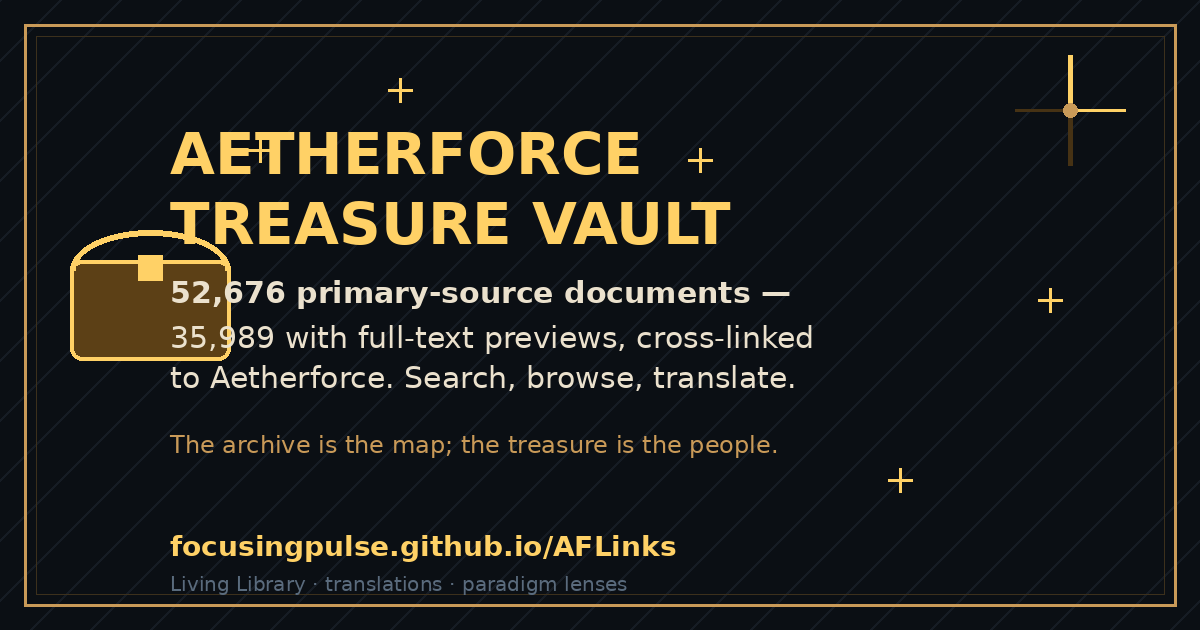
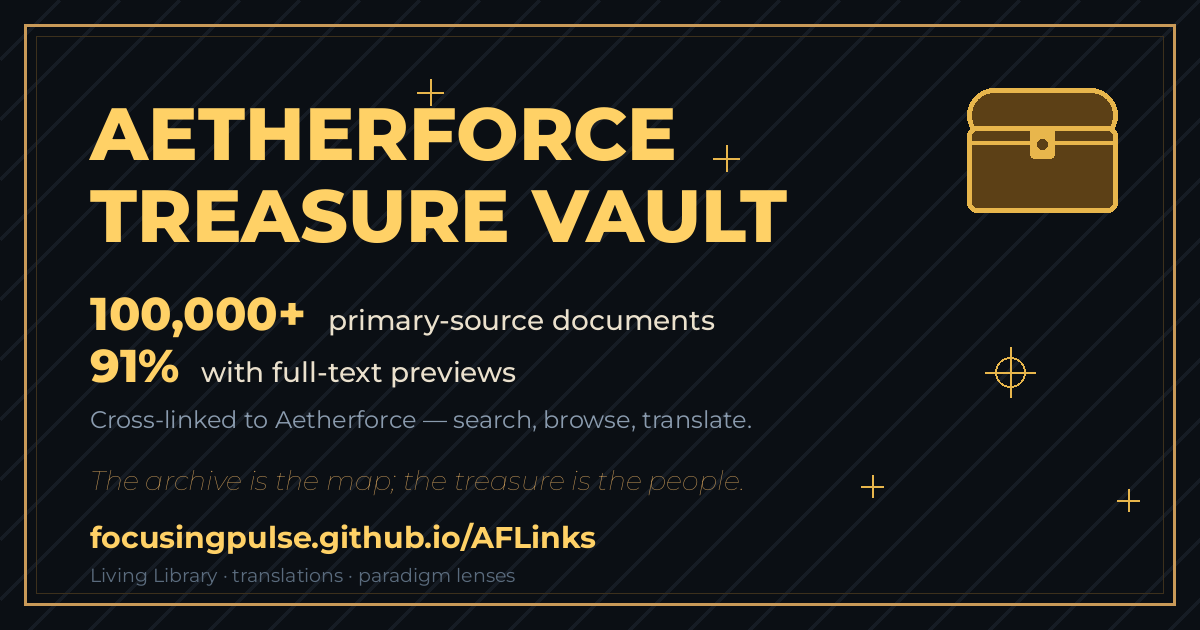
Share card: rebuild og-image.png, unfreeze the stale preview counts
The 2026-09-09 card was built with a throwaway heredoc script that was never
saved, so nothing could regenerate it. It froze at 52,676 docs / 35,989
previews while the archive passed 106,000, and the treasure-chest motif sat on
top of the first line of body text.

- og-image.png rebuilt from a saved, deterministic generator (make_og_image.py)
  that fetches its own OFL font, so the card is reproducible from a clean clone
- wording is deliberately stable ("100,000+", whole percent) rather than a live
  count -- a live count is what made the first card stale
- index.html: og:image / twitter:image carry ?v=<image hash>, so social caches
  bust exactly when the image changes and never need bumping by hand
- index.html: drop the duplicate twitter:card (the trailing "summary" overrode
  "summary_large_image")
- index.html: meta description preview count was frozen at 36,014 -> 97,101
- bake_stats.py: maintain the preview count by phrase too. Only the doc count
  had a phrase to match on, so the preview number could never update.

Authored by Tutor <agent-b73ac550-5671-471e-b3e1-721f948ea063@letta.com>

diff --git a/index.html b/index.html
@@ -9,17 +9,16 @@
     <link href="https://fonts.googleapis.com/css2?family=Pirata+One&display=swap" rel="stylesheet">
     <link rel="stylesheet" href="tokens.css">
     <link rel="icon" type="image/svg+xml" href="favicon.svg">
-    <meta name="description" content="Aetherforce Knowledge Vault — 106,205 cataloged primary-source documents (36,014 with full-text previews) on alternative science, cross-linked to Aetherforce. Browse patents, papers and research by category, lens and seam.">
+    <meta name="description" content="Aetherforce Knowledge Vault — 106,205 cataloged primary-source documents (97,101 with full-text previews) on alternative science, cross-linked to Aetherforce. Browse patents, papers and research by category, lens and seam.">
     <meta property="og:title" content="Aetherforce Knowledge Vault — Archive">
     <meta property="og:description" content="106,205 primary-source documents on the hidden sciences — searchable, cross-linked, mapped to Aetherforce. The archive is the map; the treasure is the people.">
     <meta property="og:type" content="website">
     <meta property="og:url" content="https://focusingpulse.github.io/AFLinks/index.html">
-    <meta property="og:image" content="https://focusingpulse.github.io/AFLinks/og-image.png">
+    <meta property="og:image" content="https://focusingpulse.github.io/AFLinks/og-image.png?v=209ea976">
     <meta property="og:image:width" content="1200">
     <meta property="og:image:height" content="630">
     <meta name="twitter:card" content="summary_large_image">
-    <meta name="twitter:image" content="https://focusingpulse.github.io/AFLinks/og-image.png">
-    <meta name="twitter:card" content="summary">
+    <meta name="twitter:image" content="https://focusingpulse.github.io/AFLinks/og-image.png?v=209ea976">
     <script type="application/ld+json" id="siteJsonLd">
     {"@context":"https://schema.org","@type":"WebSite","@id":"https://focusingpulse.github.io/AFLinks/","name":"Aetherforce Knowledge Vault","description":"Primary-source documents on alternative science — aether, torsion, LENR, water vortex, ether dynamics — preserved, translated and cross-linked.","url":"https://focusingpulse.github.io/AFLinks/","potentialAction":{"@type":"SearchAction","target":"https://focusingpulse.github.io/AFLinks/?cat={query}","query-input":"required name=query"}}
     </script>

diff --git a/make_og_image.py b/make_og_image.py
@@ -1,0 +1,256 @@
+#!/usr/bin/env python3
+"""make_og_image.py — regenerate og-image.png (1200x630 social share card).
+
+WHY THIS EXISTS
+---------------
+The first card (2026-09-09) was built with a throwaway heredoc PIL script that
+was never saved, so nothing could regenerate it. It froze at "52,676 documents
+/ 35,989 with full-text previews" while the archive passed 106,000, and the
+treasure-chest motif sat on top of the first line of body text.
+
+This script is the durable replacement. Re-run it whenever the headline numbers
+move enough to matter:
+
+    python3 make_og_image.py            # writes og-image.png
+    python3 make_og_image.py --check    # print live stats vs the labels below
+
+NOTE: `*.png` is gitignored (.gitignore line 13). og-image.png is TRACKED, so
+`git add -A` stages a modification normally — but a fresh copy would need
+`git add -f`. Do not "fix" the gitignore.
+
+DESIGN RULES
+------------
+* Wording is deliberately STABLE, not live: "100,000+" and a whole percent stay
+  true for months, so the card does not need regenerating every day. Do not
+  swap in an exact document count — that is what made the first card stale.
+* `--check` is the guard: it prints the live numbers so a human can see whether
+  the labels below have drifted out of honesty.
+* Palette is sampled from the live site CSS (:root in index.html), not invented.
+"""
+
+import argparse
+import json
+import os
+import sys
+
+from PIL import Image, ImageDraw, ImageFont
+
+# --- headline labels (the only things that need editing) --------------------
+DOCS_LABEL = "100,000+"          # stays true until 200,000
+PREVIEW_PCT = "91%"              # whole percent; re-check when it moves 1pt
+
+# --- palette (sampled from the live card + site :root) ----------------------
+BG = (11, 15, 20)          # #0b0f14
+HATCH = (22, 28, 36)       # #161c24
+FRAME = (201, 154, 88)     # #c99a58
+FRAME_INNER = (60, 48, 28)  # #3c301c
+GOLD = (232, 182, 76)      # #e8b64c
+GOLD_BRIGHT = (255, 209, 102)  # #ffd166
+CREAM = (235, 225, 205)    # #ebe1cd
+MUTED_GOLD = (201, 154, 88)  # #c99a58
+DIM = (138, 155, 174)      # #8a9bae
+FOOTER_DIM = (90, 107, 125)  # #5a6b7d
+CHEST_FILL = (92, 64, 22)  # #5c4016
+
+W, H = 1200, 630
+FRAME_INSET = 24
+FRAME_W = 3
+INNER_INSET = 36
+HATCH_STEP = 60
+HATCH_PHASE = 59           # matches the original card's hatch alignment
+HATCH_W = 3
+
+FONT_DIR = os.environ.get("OG_FONT_DIR", "/tmp/fonts")
+FONT = os.path.join(FONT_DIR, "Montserrat.ttf")
+FONT_ITALIC = os.path.join(FONT_DIR, "Montserrat-Italic.ttf")
+
+# Montserrat is OFL-licensed. Fetched on demand rather than vendored, so the
+# repo carries no font binaries and a fresh sandbox can still rebuild the card.
+FONT_URLS = {
+    "Montserrat.ttf":
+        "https://raw.githubusercontent.com/google/fonts/main/ofl/montserrat/Montserrat%5Bwght%5D.ttf",
+    "Montserrat-Italic.ttf":
+        "https://raw.githubusercontent.com/google/fonts/main/ofl/montserrat/Montserrat-Italic%5Bwght%5D.ttf",
+}
+
+
+def ensure_fonts():
+    import urllib.request
+    os.makedirs(FONT_DIR, exist_ok=True)
+    for name, url in FONT_URLS.items():
+        path = os.path.join(FONT_DIR, name)
+        if not os.path.exists(path):
+            print(f"fetching {name} ...")
+            urllib.request.urlretrieve(url, path)
+
+
+def font(size, weight="Regular", italic=False):
+    path = FONT_ITALIC if italic else FONT
+    if not os.path.exists(path):
+        sys.exit(f"missing font {path} — set OG_FONT_DIR to a dir holding "
+                 f"Montserrat.ttf / Montserrat-Italic.ttf")
+    f = ImageFont.truetype(path, size)
+    try:
+        f.set_variation_by_name(weight)
+    except Exception:
+        pass  # static font: fall back to its default weight
+    return f
+
+
+def draw_hatch(d):
+    """45-degree '/' lines: x + y = c, matching the original card."""
+    for c in range(HATCH_PHASE, W + H, HATCH_STEP):
+        # clip the segment to the canvas
+        x0, y0 = max(0, c - H), min(H, c)
+        x1, y1 = min(W, c), max(0, c - W)
+        d.line([(x0, y0), (x1, y1)], fill=HATCH, width=HATCH_W)
+
+
+def draw_frame(d):
+    d.rectangle([FRAME_INSET, FRAME_INSET, W - 1 - FRAME_INSET, H - 1 - FRAME_INSET],
+                outline=FRAME, width=FRAME_W)
+    d.rectangle([INNER_INSET, INNER_INSET, W - 1 - INNER_INSET, H - 1 - INNER_INSET],
+                outline=FRAME_INNER, width=1)
+
+
+def draw_plus(d, cx, cy, arm, color, w=2):
+    d.line([(cx - arm, cy), (cx + arm, cy)], fill=color, width=w)
+    d.line([(cx, cy - arm), (cx, cy + arm)], fill=color, width=w)
+
+
+def draw_crosshair(d, cx, cy, r, color, w=2):
+    """Surveyor's mark: a ring with four ticks crossing it."""
+    d.ellipse([cx - r, cy - r, cx + r, cy + r], outline=color, width=w)
+    tick = int(r * 1.7)
+    d.line([(cx - tick, cy), (cx + tick, cy)], fill=color, width=w)
+    d.line([(cx, cy - tick), (cx, cy + tick)], fill=color, width=w)
+
+
+def draw_chest(d, cx, cy, w, h):
+    """Treasure chest: domed lid, gold outline, lid seam and latch. Brand motif.
+
+    Pillow 9.4 has no per-corner radii, so the lid and body are two rounded
+    rectangles overlapped to hide the join, then the seam is redrawn on top.
+    """
+    x0, y0, x1, y1 = cx - w // 2, cy - h // 2, cx + w // 2, cy + h // 2
+    lid_h = int(h * 0.44)
+    seam = y0 + lid_h
+    # lid first, then the body overlaps its lower edge
+    d.rounded_rectangle([x0, y0, x1, seam], radius=lid_h // 2,
+                        fill=CHEST_FILL, outline=GOLD, width=5)
+    d.rounded_rectangle([x0, seam - 16, x1, y1], radius=10,
+                        fill=CHEST_FILL, outline=GOLD, width=5)
+    # lid seam + latch straddling it
+    d.line([(x0 + 4, seam), (x1 - 4, seam)], fill=GOLD, width=4)
+    lw, lh = int(w * 0.17), int(h * 0.26)
+    d.rounded_rectangle([cx - lw // 2, seam - lh // 2, cx + lw // 2, seam + lh // 2],
+                        radius=4, fill=GOLD)
+    d.ellipse([cx - 5, seam - 3, cx + 5, seam + 7], fill=CHEST_FILL)
+
+
+def build(out_path):
+    ensure_fonts()
+    img = Image.new("RGB", (W, H), BG)
+    d = ImageDraw.Draw(img)
+
+    draw_hatch(d)
+
+    # --- decorative marks (kept clear of every text baseline) ---------------
+    draw_plus(d, 430, 92, 13, GOLD)
+    draw_plus(d, 726, 158, 13, GOLD)
+    draw_crosshair(d, 1010, 372, 15, GOLD)
+    draw_plus(d, 872, 486, 11, GOLD)
+    draw_plus(d, 1128, 500, 11, GOLD)
+
+    # --- treasure chest, top right (the first card had this over the text) --
+    draw_chest(d, 1042, 150, 150, 124)
+
+    # --- title --------------------------------------------------------------
+    f_title = font(74, "ExtraBold")
+    d.text((90, 160), "AETHERFORCE", font=f_title, fill=GOLD_BRIGHT, anchor="ls")
+    d.text((90, 242), "TREASURE VAULT", font=f_title, fill=GOLD_BRIGHT, anchor="ls")
+
+    # --- headline stats: big gold number + smaller cream label --------------
+    f_num = font(46, "ExtraBold")
+    f_lab = font(28, "Medium")
+    for baseline, num, label in ((330, DOCS_LABEL, " primary-source documents"),
+                                 (382, PREVIEW_PCT, " with full-text previews")):
+        d.text((90, baseline), num, font=f_num, fill=GOLD_BRIGHT, anchor="ls")
+        nw = d.textlength(num, font=f_num)
+        d.text((90 + nw + 14, baseline), label, font=f_lab, fill=CREAM, anchor="ls")
+
+    # --- caption / tagline / url / footer -----------------------------------
+    d.text((90, 428), "Cross-linked to Aetherforce — search, browse, translate.",
+           font=font(24), fill=DIM, anchor="ls")
+    d.text((90, 490), "The archive is the map; the treasure is the people.",
+           font=font(27, "Medium", italic=True), fill=MUTED_GOLD, anchor="ls")
+    d.text((90, 548), "focusingpulse.github.io/AFLinks",
+           font=font(30, "Bold"), fill=GOLD_BRIGHT, anchor="ls")
+    d.text((90, 582), "Living Library · translations · paradigm lenses",
+           font=font(19), fill=FOOTER_DIM, anchor="ls")
+
+    draw_frame(d)
+
+    img.save(out_path, "PNG", optimize=True)
+    return out_path
+
+
+def stamp_version(png_path, html_name="index.html"):
+    """Point og:image / twitter:image at og-image.png?v=<image content hash>.
+
+    Social platforms cache a share card by URL, so replacing the PNG alone can
+    leave the old card showing for days. The version is the image's own hash, so
+    it changes exactly when the image changes — never on a rebuild that did not
+    touch it, and never needs bumping by hand.
+    """
+    import hashlib
+    import re
+
+    digest = hashlib.sha256(open(png_path, "rb").read()).hexdigest()[:8]
+    url = "https://focusingpulse.github.io/AFLinks/og-image.png"
+    path = os.path.join(os.path.dirname(os.path.abspath(__file__)), html_name)
+    if not os.path.exists(path):
+        return None
+    html = open(path, encoding="utf-8").read()
+    new = re.sub(re.escape(url) + r"(\?v=[0-9a-f]+)?", url + "?v=" + digest, html)
+    if new != html:
+        open(path, "w", encoding="utf-8").write(new)
+    return digest
+
+
+def check():
+    """Print live stats next to the labels, so drift is visible."""
+    here = os.path.dirname(os.path.abspath(__file__))
+    for cand in (os.path.join(here, "stats.json"),
+                 os.path.join(here, "..", "stats.json")):
+        if os.path.exists(cand):
+            s = json.load(open(cand, encoding="utf-8"))
+            docs, prev = s.get("docs"), s.get("docs_with_previews")
+            pct = round(100 * prev / docs) if docs and prev else None
+            print(f"live stats.json : {docs:,} docs, {prev:,} previews ({pct}%)")
+            print(f"card labels     : {DOCS_LABEL} docs, {PREVIEW_PCT} previews")
+            if docs and docs < 100_000:
+                print("WARN: DOCS_LABEL overstates the archive")
+            if pct is not None and abs(pct - int(PREVIEW_PCT.rstrip('%'))) > 1:
+                print("WARN: PREVIEW_PCT is more than 1 point off — update it")
+            return
+    print("no stats.json found next to this script; labels not verified")
+
+
+if __name__ == "__main__":
+    ap = argparse.ArgumentParser()
+    ap.add_argument("--out", default=os.path.join(
+        os.path.dirname(os.path.abspath(__file__)), "og-image.png"))
+    ap.add_argument("--check", action="store_true")
+    ap.add_argument("--no-stamp", action="store_true",
+                    help="skip rewriting the ?v= hash into index.html")
+    a = ap.parse_args()
+    if a.check:
+        check()
+    else:
+        print("wrote", build(a.out))
+        if not a.no_stamp:
+            v = stamp_version(a.out)
+            if v:
+                print(f"stamped og:image ?v={v} in index.html")
+        check()

diff --git a/bake_stats.py b/bake_stats.py
@@ -128,10 +128,17 @@ def main() -> int:
         # word between the number and the phrase so a future reword cannot
         # freeze it again. [^"] cannot cross the closing quote, so each match
         # stays inside one attribute value.
-        for phrase in ("primary-source", "searchable primary-source"):
+        #
+        # The preview count was the same bug one clause later: the description
+        # read "(36,014 with full-text previews)" while the archive carried
+        # 97,101, because only the doc count had a phrase to match on. Every
+        # number in these tags needs its own phrase entry or it freezes.
+        for phrase, value in (("primary-source", docs),
+                              ("searchable primary-source", docs),
+                              ("with full-text previews", docs_with_previews)):
             html, n = re.subn(
                 r'(content="[^"]*?)\b[0-9][0-9,]*( (?:\w+ )?' + re.escape(phrase) + r')',
-                lambda m: m.group(1) + f"{docs:,}" + m.group(2),
+                lambda m, v=value: m.group(1) + f"{v:,}" + m.group(2),
                 html,
             )
             if n:
